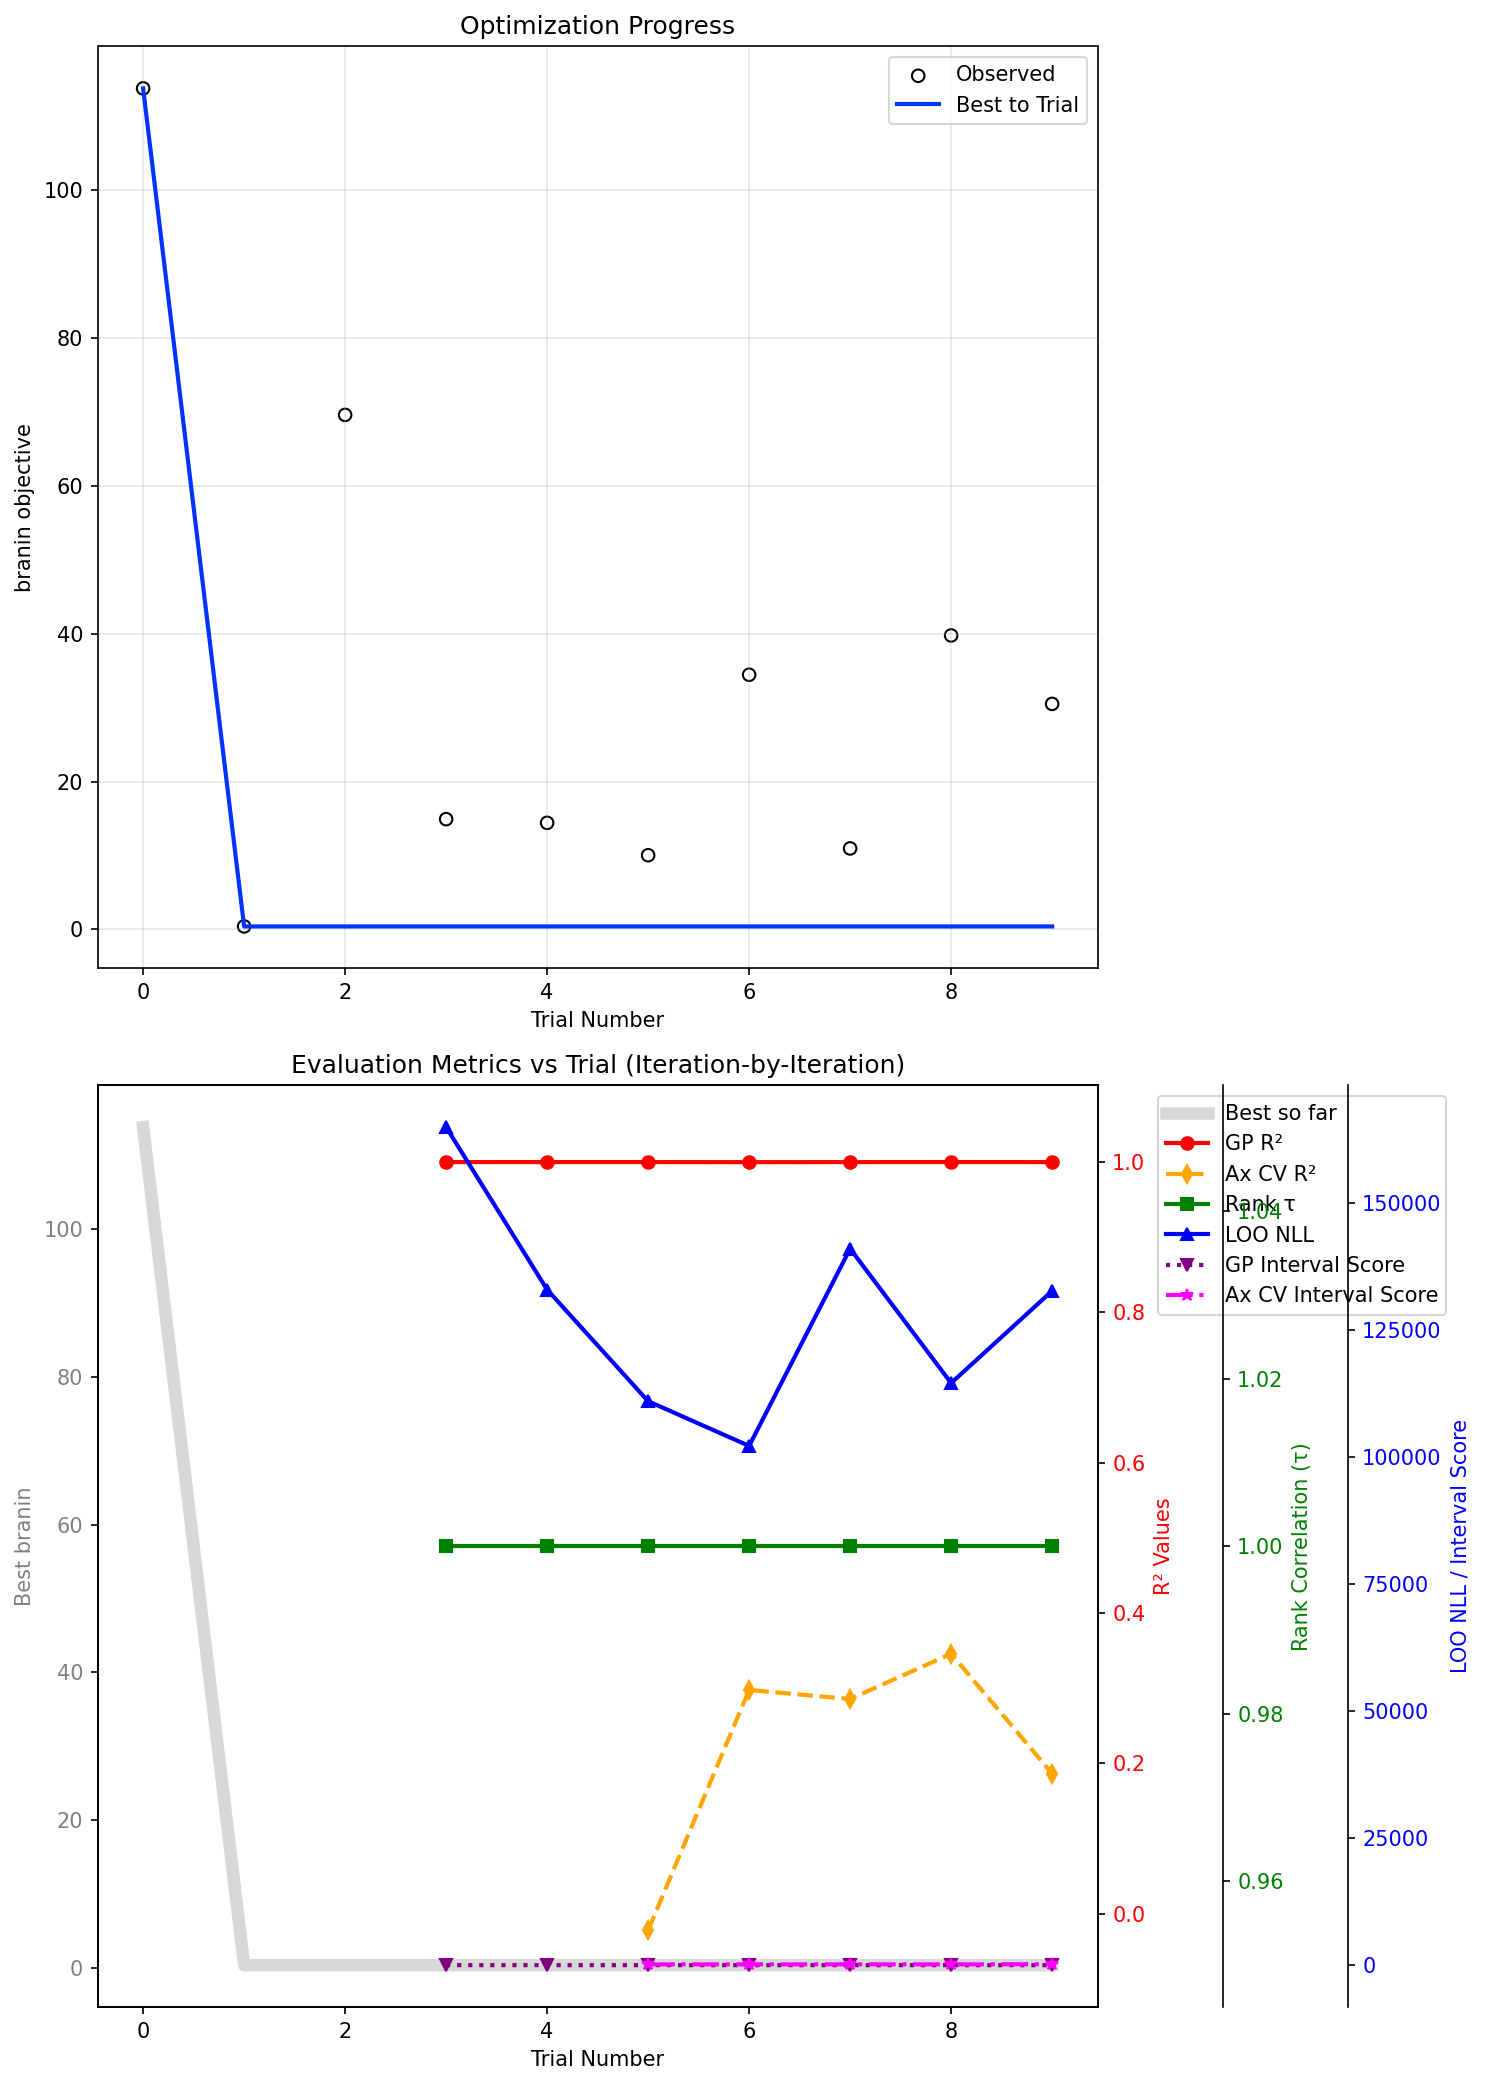
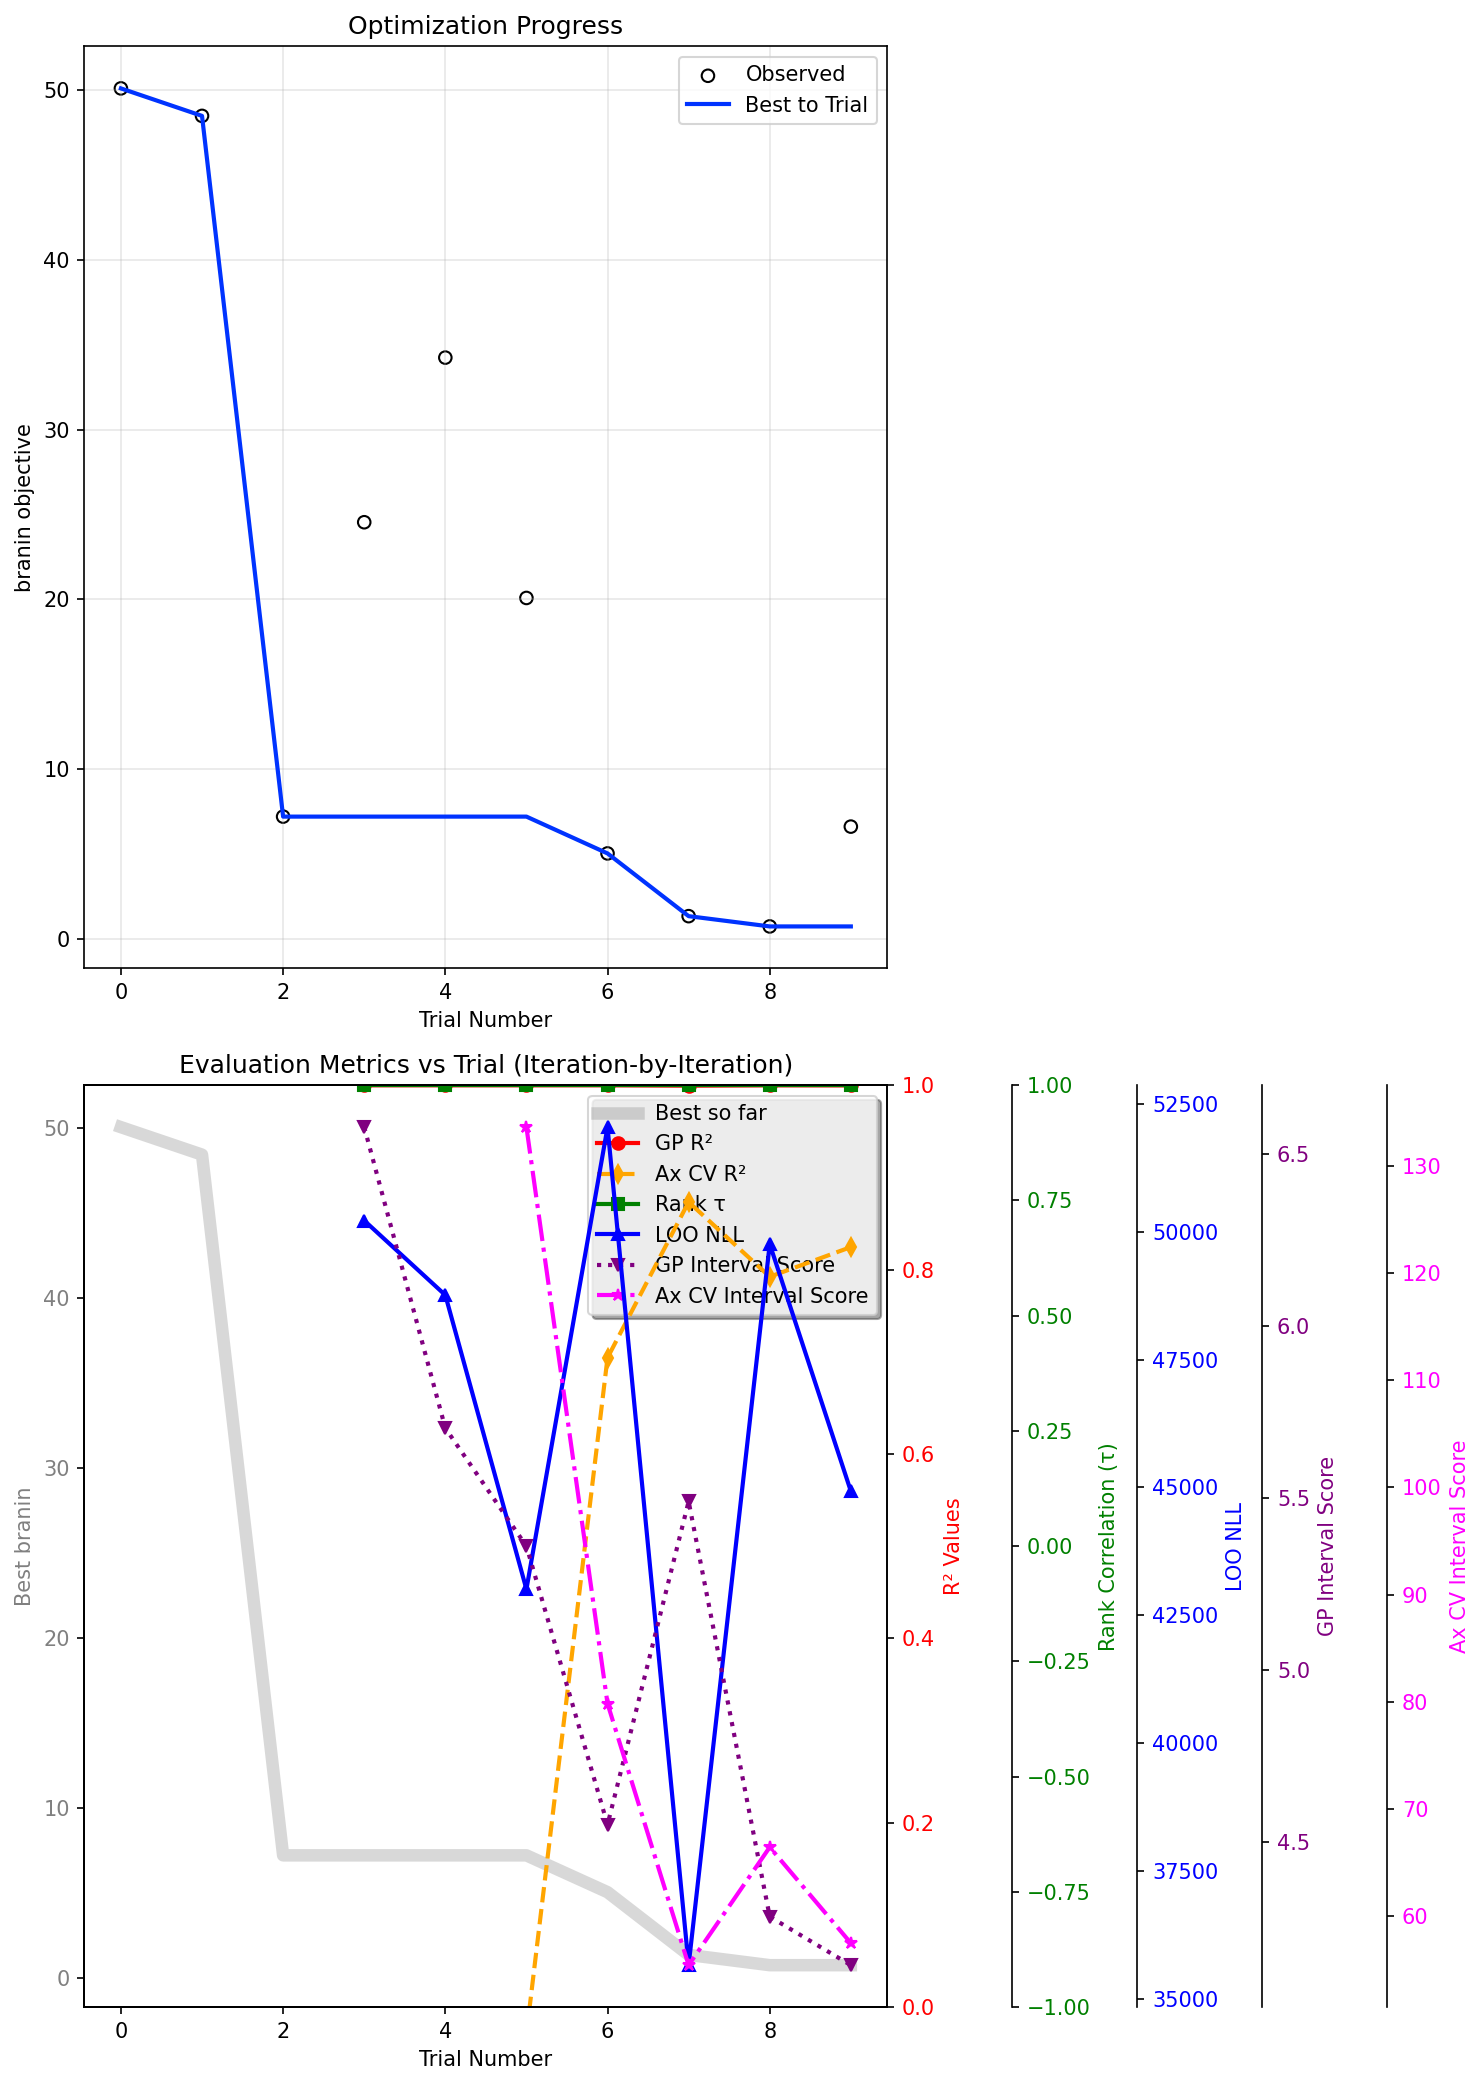
Fix Ax CV uncertainty extraction and improve multi-axis plotting with proper y-axis ranges and legend transparency

diff --git a/scripts/bo_benchmarks/demonstrations/branin_campaign_demonstration.py b/scripts/bo_benchmarks/demonstrations/branin_campaign_demonstration.py
@@ -74,31 +74,37 @@ def calculate_ax_cross_validation_metrics(ax_client, trial_index):
         # Get the model bridge from the generation strategy 
         model_bridge = ax_client.generation_strategy.model
         if model_bridge is None:
-            print("  Main client model bridge is None")
+            print("  Model bridge is None")
             return None, None
         
         # Run cross validation using Ax's built-in function with the model bridge
         cv = cross_validate(model=model_bridge, folds=-1)  # Leave-one-out CV
         fig = interact_cross_validation_plotly(cv)
-        y_act = fig["data"][1].x
-        y_pred = fig["data"][1].y
+        
+        # Extract actual and predicted values from the "In-sample" trace (trace 1)
+        in_sample_trace = fig["data"][1]
+        y_act = np.array(in_sample_trace.x)
+        y_pred = np.array(in_sample_trace.y)
         
         # Calculate R² using Ax's cross validation predictions
         ax_cv_r2 = r2_score(y_act, y_pred)
         print(f"  Ax CV R²: {ax_cv_r2:.4f}")
         
-        # For interval score calculation, we need uncertainty estimates
-        # We'll use the residuals to estimate uncertainty
-        residuals = np.array(y_act) - np.array(y_pred)
-        pred_std = np.std(residuals)  # Simple estimate of prediction uncertainty
-        
-        # Convert to 95% confidence intervals using the estimated std
-        lower = np.array(y_pred) - 1.96 * pred_std
-        upper = np.array(y_pred) + 1.96 * pred_std
-        
-        interval_scores = interval_score(np.array(y_act), lower, upper)
-        ax_cv_interval_score = np.mean(interval_scores)
-        print(f"  Ax CV Interval Score: {ax_cv_interval_score:.4f}")
+        # Extract uncertainty directly from the plot data as requested
+        if hasattr(in_sample_trace, 'error_y') and in_sample_trace.error_y is not None:
+            # Get standard errors from the plot
+            pred_std = np.array(in_sample_trace.error_y.array)
+            
+            # Convert to 95% confidence intervals using the extracted std errors
+            lower = y_pred - 1.96 * pred_std
+            upper = y_pred + 1.96 * pred_std
+            
+            interval_scores = interval_score(y_act, lower, upper)
+            ax_cv_interval_score = np.mean(interval_scores)
+            print(f"  Ax CV Interval Score: {ax_cv_interval_score:.4f}")
+        else:
+            print("  No uncertainty data available from Ax CV")
+            ax_cv_interval_score = None
         
         return ax_cv_r2, ax_cv_interval_score
         
@@ -273,68 +279,84 @@ if all_metrics:
     interval_trial_nums = [m['trial'] for m in all_metrics if m['interval_score'] is not None]
     ax_cv_interval_trial_nums = [m['trial'] for m in all_metrics if m['ax_cv_interval_score'] is not None]
     
-    # Use multiple y-axes for different scales
-    ax2_twin1 = ax2.twinx()  # R² values will be on the right
-    ax2_twin2 = ax2.twinx()
-    ax2_twin3 = ax2.twinx()
-    ax2_twin2.spines['right'].set_position(('outward', 60))
-    ax2_twin3.spines['right'].set_position(('outward', 120))
+    # Create 6 y-axes as requested: 1 left + 5 right
+    # Left axis: Best-so-far trace
+    # Right axes: R² (shared), Rank τ, LOO NLL, GP Interval Score, Ax CV Interval Score
+    
+    ax2_r2 = ax2.twinx()       # Right axis 1: R² values (0-1)
+    ax2_tau = ax2.twinx()      # Right axis 2: Rank correlation τ (-1 to 1)  
+    ax2_loo = ax2.twinx()      # Right axis 3: LOO NLL
+    ax2_gp_int = ax2.twinx()   # Right axis 4: GP Interval Score
+    ax2_ax_int = ax2.twinx()   # Right axis 5: Ax CV Interval Score
+    
+    # Position the additional y-axes
+    ax2_tau.spines['right'].set_position(('outward', 60))
+    ax2_loo.spines['right'].set_position(('outward', 120))
+    ax2_gp_int.spines['right'].set_position(('outward', 180))
+    ax2_ax_int.spines['right'].set_position(('outward', 240))
     
     # Plot best-so-far trace on the left (main) y-axis
     best_so_far = np.minimum.accumulate(df[objective_name])
     line_best = ax2.plot(df.index, best_so_far, color='gray', linewidth=6, alpha=0.3, 
                          label='Best so far', linestyle='-', zorder=1)
     
-    # Plot R² values on the right y-axis (ax2_twin1)
-    line1 = ax2_twin1.plot(trial_nums, gp_r2_values, 'r-', label='GP R²', marker='o', linewidth=2, zorder=3)
-    lines = line_best + line1
+    # Plot R² values on right axis 1 (fixed 0-1 range)
+    line_gp_r2 = ax2_r2.plot(trial_nums, gp_r2_values, 'r-', label='GP R²', marker='o', linewidth=2, zorder=3)
+    lines = line_best + line_gp_r2
     
-    # Plot Ax CV R² if available (also on right y-axis)
+    # Plot Ax CV R² if available (also on right axis 1)
     if ax_cv_r2_values:
-        line4 = ax2_twin1.plot(ax_cv_trial_nums, ax_cv_r2_values, 'orange', label='Ax CV R²', marker='d', 
+        line_ax_r2 = ax2_r2.plot(ax_cv_trial_nums, ax_cv_r2_values, 'orange', label='Ax CV R²', marker='d', 
                               linewidth=2, linestyle='--', zorder=3)
-        lines += line4
+        lines += line_ax_r2
     
-    # Set appropriate y-axis limits for R² values
-    r2_values_all = gp_r2_values + (ax_cv_r2_values if ax_cv_r2_values else [])
-    if r2_values_all:
-        r2_min, r2_max = min(r2_values_all), max(r2_values_all)
-        r2_range = r2_max - r2_min
-        ax2_twin1.set_ylim(r2_min - 0.1 * r2_range, r2_max + 0.1 * r2_range)
+    # Set R² axis range to 0-1
+    ax2_r2.set_ylim(0, 1)
     
-    # Plot other metrics on additional y-axes
-    line2 = ax2_twin2.plot(trial_nums, rank_tau_values, 'g-', label='Rank τ', marker='s', linewidth=2, zorder=3)
-    line3 = ax2_twin3.plot(trial_nums, loo_values, 'b-', label='LOO NLL', marker='^', linewidth=2, zorder=3)
-    lines += line2 + line3
+    # Plot rank tau correlation on right axis 2 (fixed -1 to 1 range)
+    line_tau = ax2_tau.plot(trial_nums, rank_tau_values, 'g-', label='Rank τ', marker='s', linewidth=2, zorder=3)
+    lines += line_tau
+    ax2_tau.set_ylim(-1, 1)
     
-    # Plot GP-based interval score if available  
+    # Plot LOO NLL on right axis 3 (auto range)
+    line_loo = ax2_loo.plot(trial_nums, loo_values, 'b-', label='LOO NLL', marker='^', linewidth=2, zorder=3)
+    lines += line_loo
+    
+    # Plot GP interval score on right axis 4 (auto range)
     if interval_score_values:
-        line5 = ax2_twin3.plot(interval_trial_nums, interval_score_values, 'purple', label='GP Interval Score', 
+        line_gp_int = ax2_gp_int.plot(interval_trial_nums, interval_score_values, 'purple', label='GP Interval Score', 
                               marker='v', linewidth=2, linestyle=':', zorder=3)
-        lines += line5
+        lines += line_gp_int
     
-    # Plot Ax CV interval score if available
+    # Plot Ax CV interval score on right axis 5 (auto range)
     if ax_cv_interval_score_values:
-        line6 = ax2_twin3.plot(ax_cv_interval_trial_nums, ax_cv_interval_score_values, 'magenta', 
+        line_ax_int = ax2_ax_int.plot(ax_cv_interval_trial_nums, ax_cv_interval_score_values, 'magenta', 
                               label='Ax CV Interval Score', marker='*', linewidth=2, linestyle='-.', zorder=3)
-        lines += line6
+        lines += line_ax_int
         
+    # Set axis labels and colors
     ax2.set_xlabel("Trial Number")
     ax2.set_ylabel(f"Best {objective_name}", color='gray')
-    ax2_twin1.set_ylabel("R² Values", color='r')
-    ax2_twin2.set_ylabel("Rank Correlation (τ)", color='g')
-    ax2_twin3.set_ylabel("LOO NLL / Interval Score", color='b')
+    ax2_r2.set_ylabel("R² Values", color='red')
+    ax2_tau.set_ylabel("Rank Correlation (τ)", color='green')
+    ax2_loo.set_ylabel("LOO NLL", color='blue')
+    ax2_gp_int.set_ylabel("GP Interval Score", color='purple')
+    ax2_ax_int.set_ylabel("Ax CV Interval Score", color='magenta')
     
+    # Set tick colors to match y-axis colors
     ax2.tick_params(axis='y', labelcolor='gray')
-    ax2_twin1.tick_params(axis='y', labelcolor='r')
-    ax2_twin2.tick_params(axis='y', labelcolor='g')
-    ax2_twin3.tick_params(axis='y', labelcolor='b')
+    ax2_r2.tick_params(axis='y', labelcolor='red')
+    ax2_tau.tick_params(axis='y', labelcolor='green')
+    ax2_loo.tick_params(axis='y', labelcolor='blue')
+    ax2_gp_int.tick_params(axis='y', labelcolor='purple')
+    ax2_ax_int.tick_params(axis='y', labelcolor='magenta')
     
     ax2.set_title("Evaluation Metrics vs Trial (Iteration-by-Iteration)")
     
-    # Combined legend - place outside plot area to avoid overlap
+    # Place legend inside plot with transparency to avoid axis overlap
     labels = [l.get_label() for l in lines]
-    ax2.legend(lines, labels, bbox_to_anchor=(1.05, 1), loc='upper left')
+    legend = ax2.legend(lines, labels, loc='upper right', framealpha=0.8, fancybox=True, shadow=True)
+    legend.get_frame().set_facecolor('white')
     
     print(f"\nLOO Negative Log-Likelihood values: {loo_values}")
     print(f"Rank tau correlation values: {rank_tau_values}")
